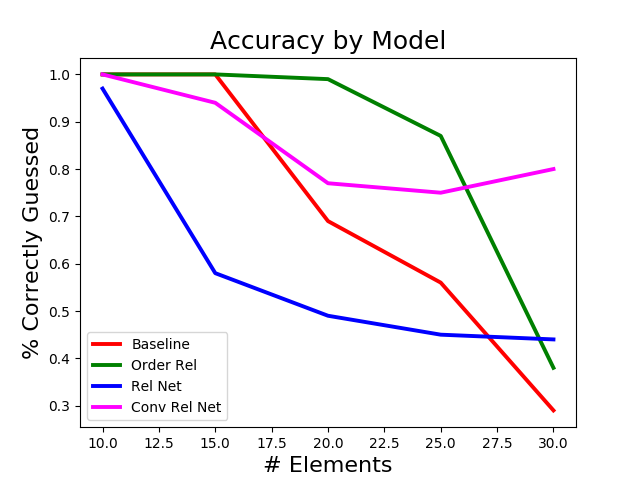
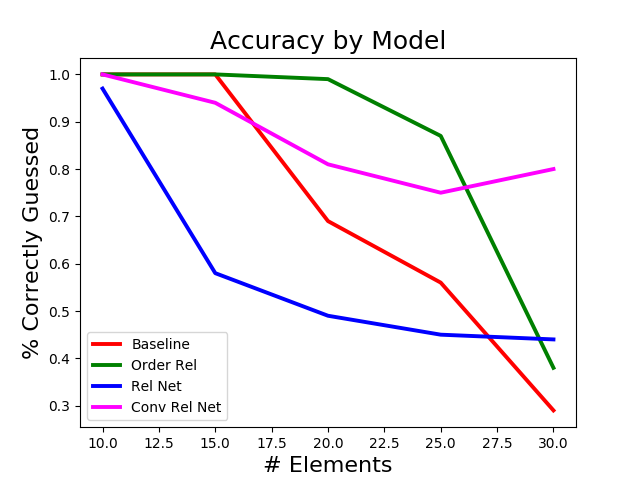
update

Changed region(s): [[0.3438, 0.2188, 0.6875, 0.4062]]

diff --git a/PermutationRN/analysis.py b/PermutationRN/analysis.py
@@ -329,7 +329,7 @@ def combine_plots_n(N):
 	loc = 'upper right'
 	combine_plots(model_names, displ_names, colors, 'v_losses', fig_name, title_name, loc)
 
-# combine_plots_n(30)
+# combine_plots_n(20)
 
 # Bla bla plot
 def print_acc_all():
@@ -337,7 +337,7 @@ def print_acc_all():
 	set_1 = [1.00, 1.00, 0.69, 0.56, 0.29]
 	set_2 = [1.00, 1.00, 0.99, 0.87, 0.38]
 	set_3 = [0.97, 0.58, 0.49, 0.45, 0.44]
-	set_4 = [1.00, 0.94, 0.77, 0.75, 0.80]
+	set_4 = [1.00, 0.94, 0.81, 0.75, 0.80]
 	plt.title('Accuracy by Model', fontsize = 18)
 	plt.xlabel('# Elements', fontsize = 16)
 	plt.ylabel('% Correctly Guessed', fontsize = 16)

diff --git a/RelationalPROG/5_practice_report.md b/RelationalPROG/5_practice_report.md
@@ -181,7 +181,7 @@ TODO
 |Baseline    |Neural Net with 3 layers: 512, 256, 128, using array as input  (10.1.1)|100%|100%| 69%| 56%| 29%|
 |Order Rel   |Same Neural Net as the Baseline, using order relations instead         |100%|100%| 99%| 87%| 38%|
 |Rel Net     |(10.1.2A)| 97%| 58%| 49%| 45%| 44%|
-|Conv Rel Net|(10.1.2B)|100%| 94%| 77%| 75%| 80%|
+|Conv Rel Net|(10.1.2B)|100%| 94%| 81%| 75%| 80%|
 
 ### 10.3 Frameworks
 
